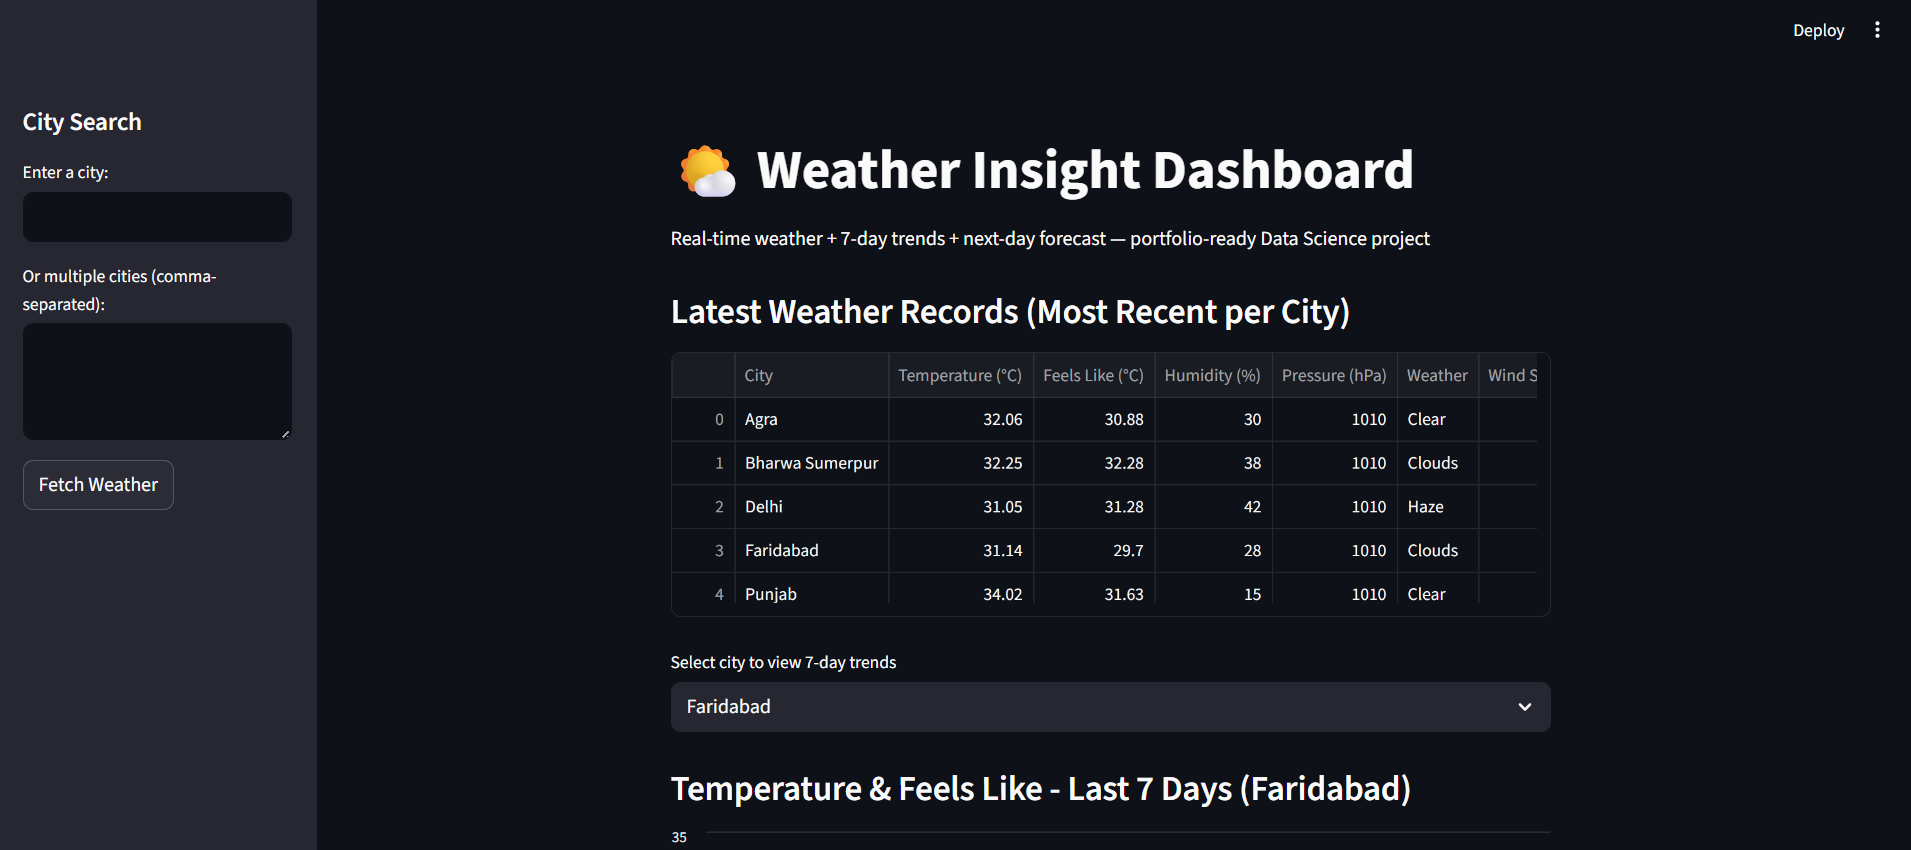
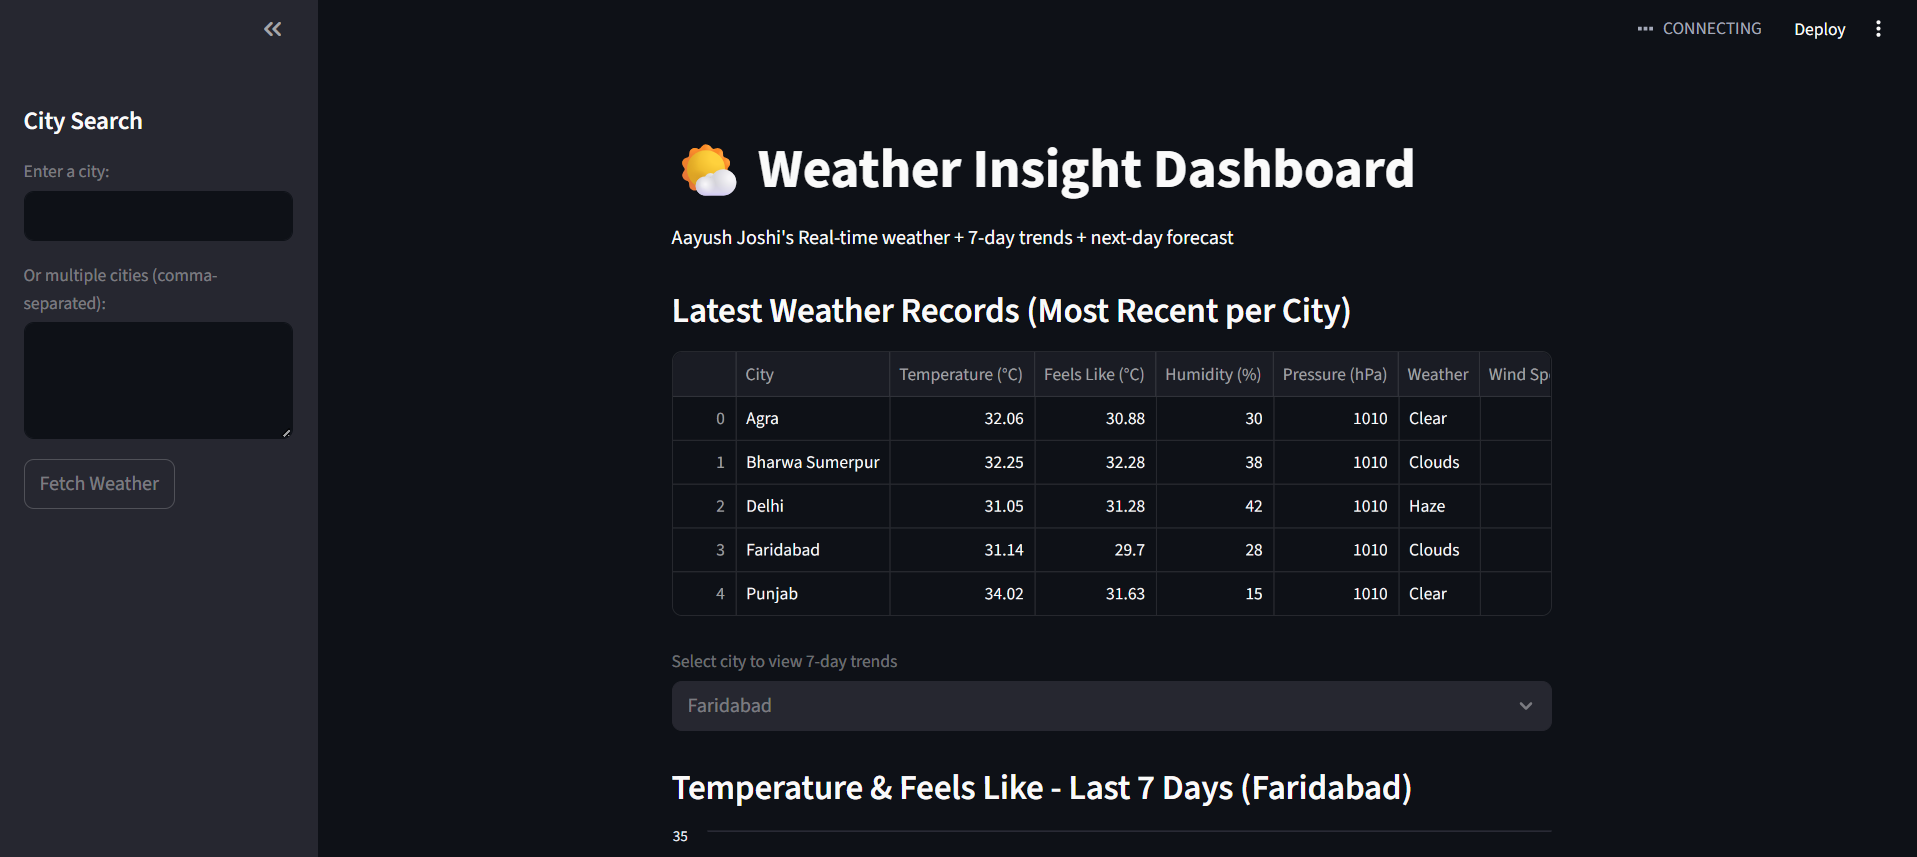
modified_app.py

diff --git a/Weather_App/app.py b/Weather_App/app.py
@@ -17,7 +17,7 @@ if not API_KEY:
 
 # Title
 st.title("🌤 Weather Insight Dashboard")
-st.write("Real-time weather + 7-day trends + next-day forecast — portfolio-ready Data Science project")
+st.write("Aayush Joshi's Real-time weather + 7-day trends + next-day forecast")
 
 # Sidebar input
 st.sidebar.header("City Search")
